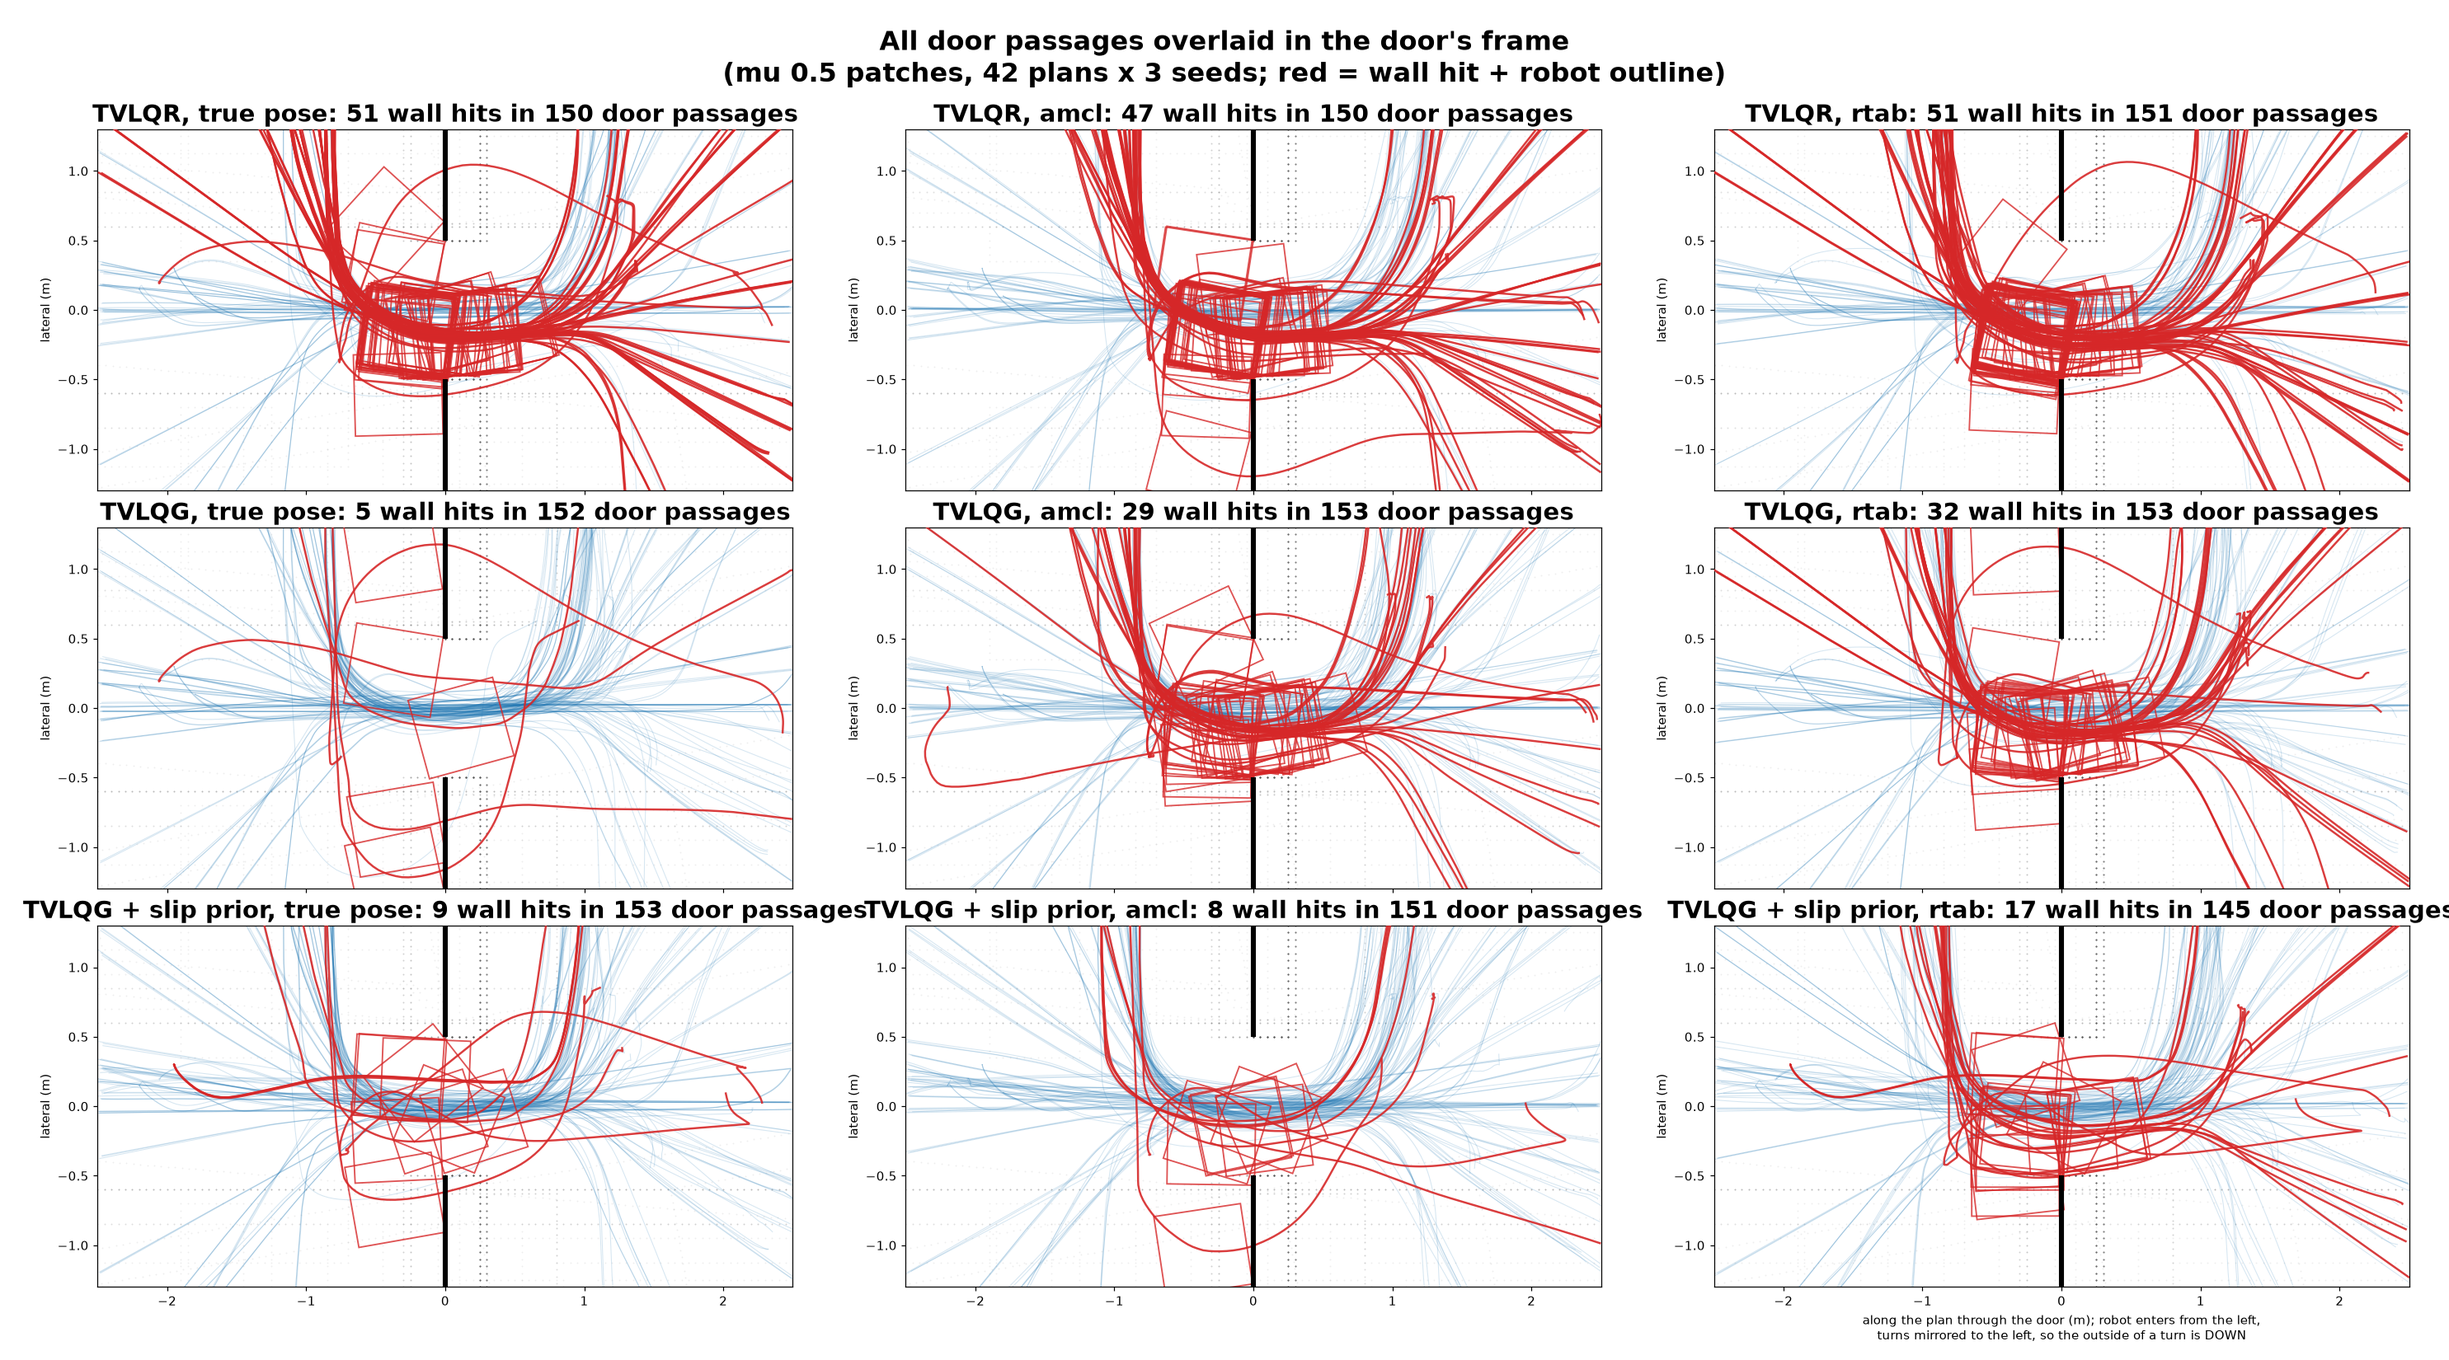
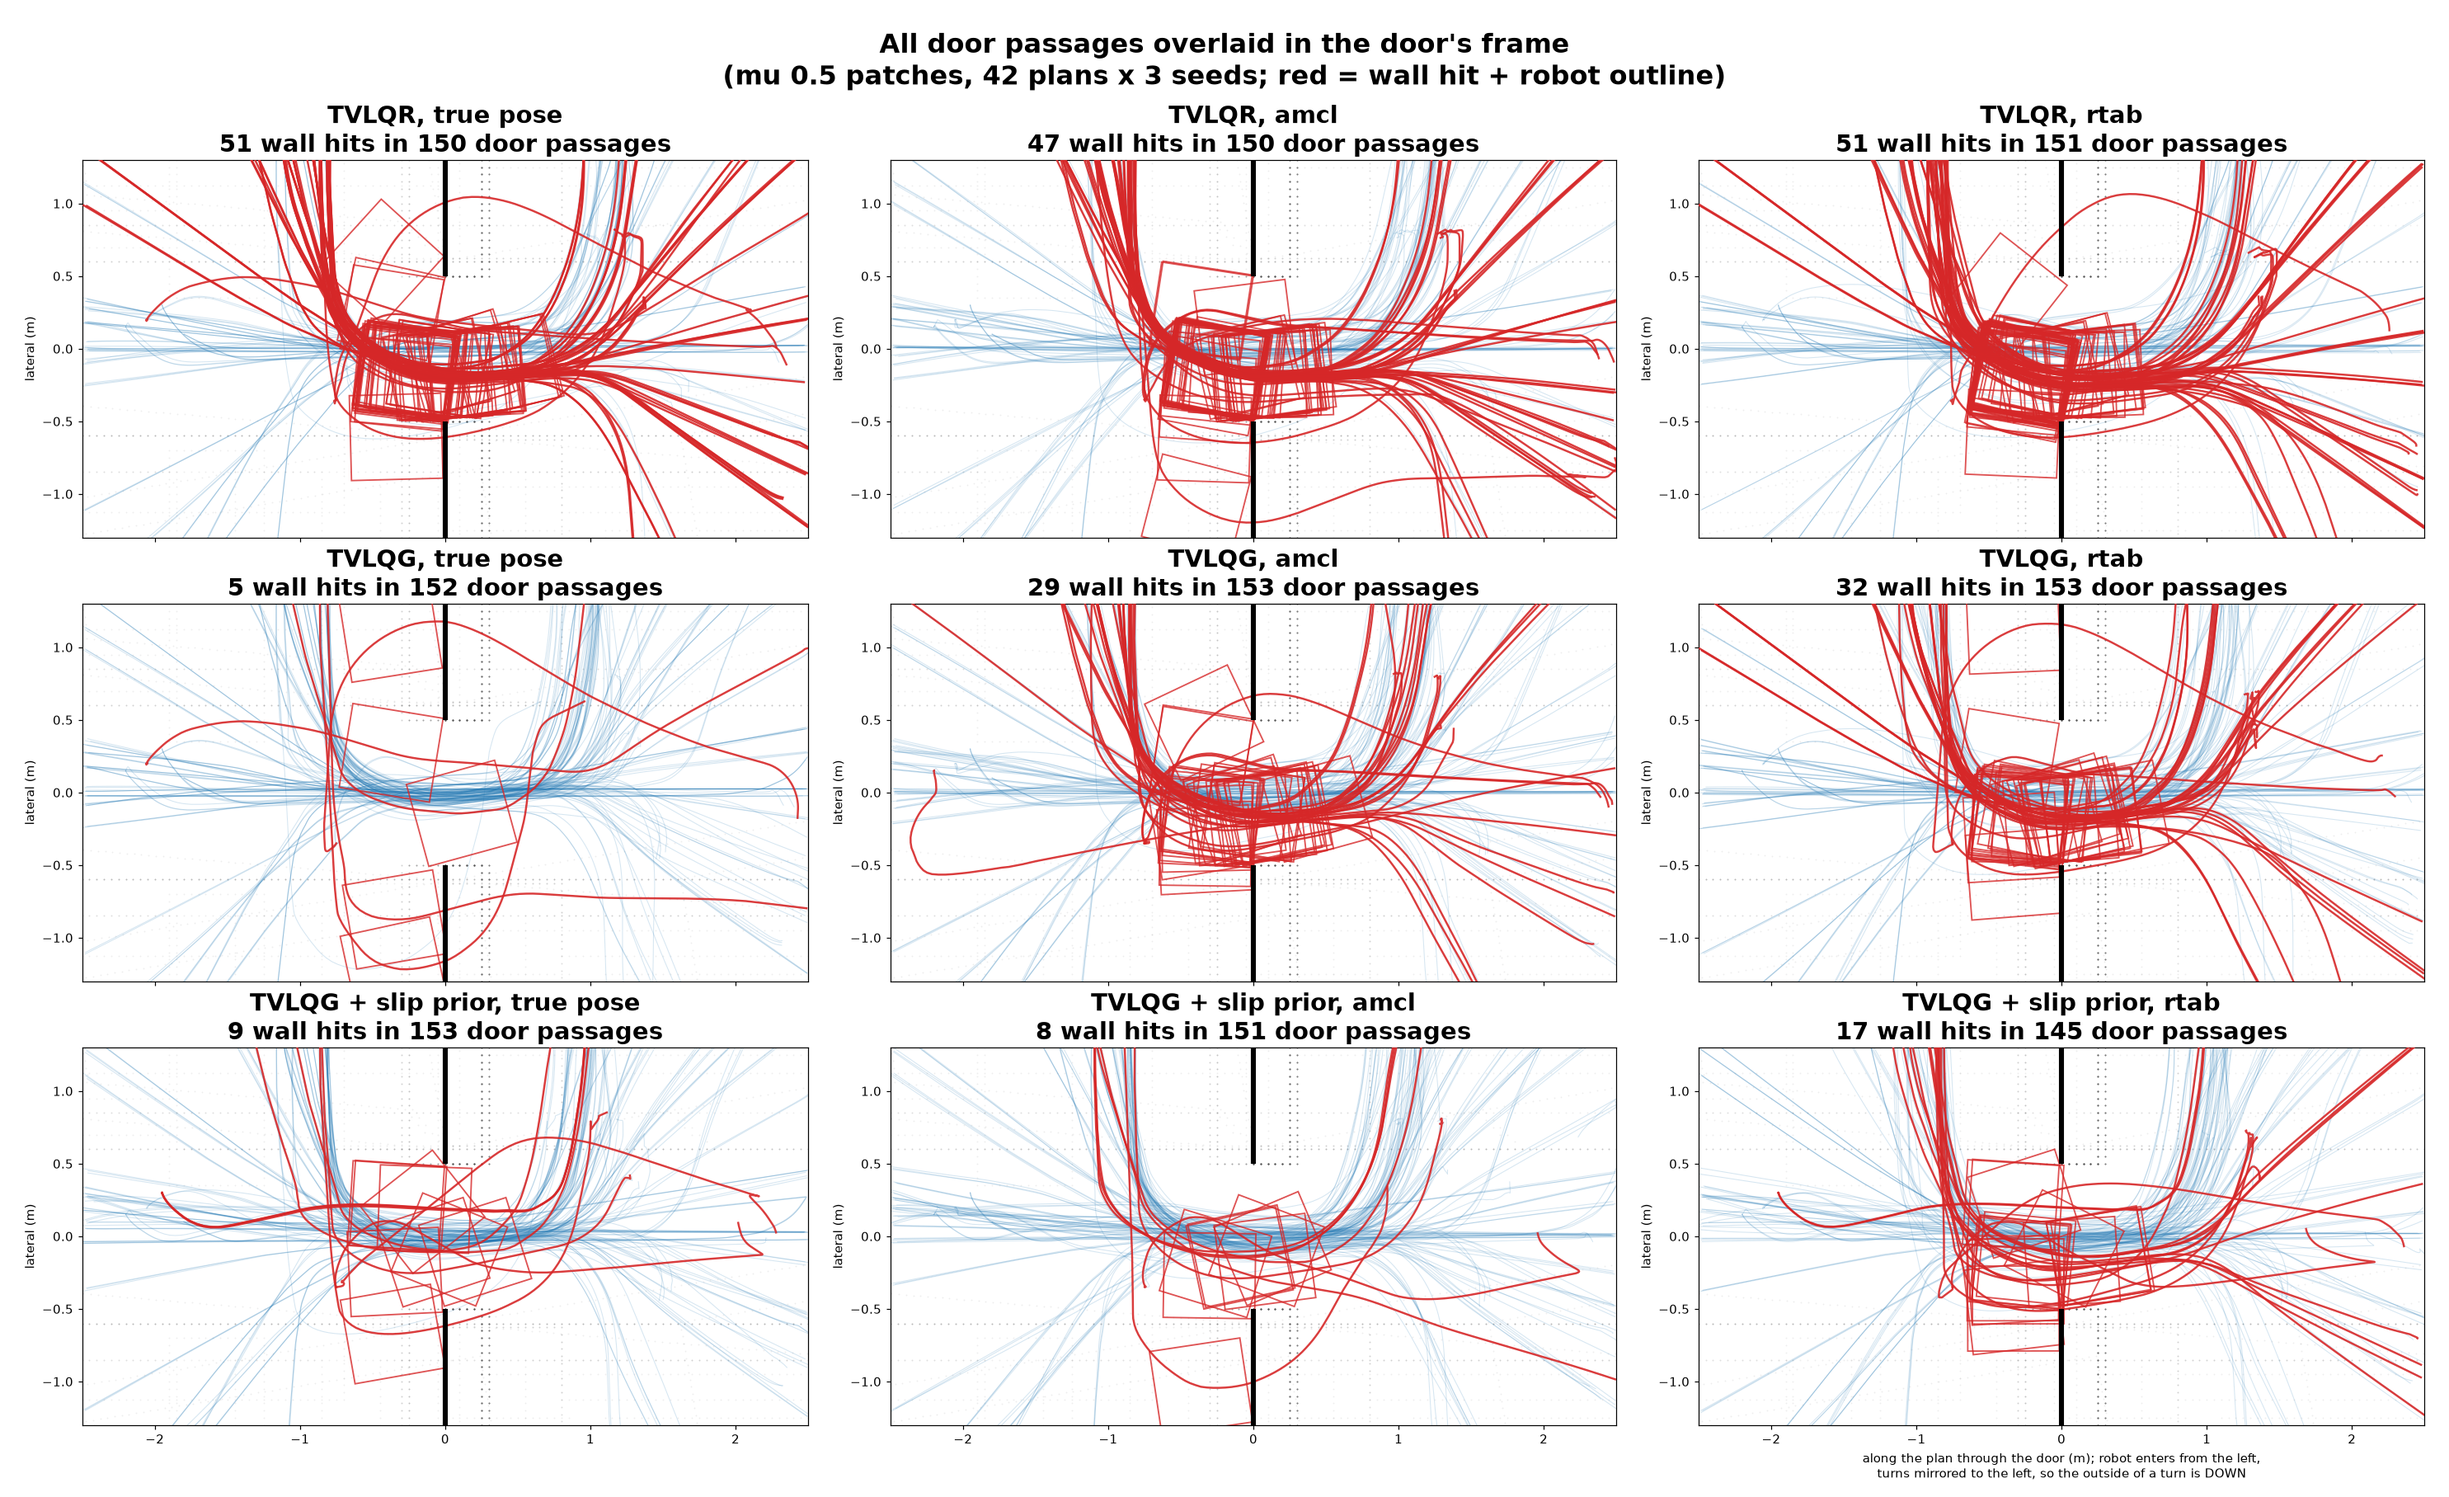
Add filter-pose door overlay figures

Changed region(s): [[0.0, 0.0309, 1.0, 0.9891]]

diff --git a/figures/2026-10-12/door_overlay/door_overlay.py b/figures/2026-10-12/door_overlay/door_overlay.py
@@ -89,7 +89,7 @@ def to_frame(p, o, h, m):
 
 
 NR = -(-len(ARMS) // COLS)
-fig, axs = plt.subplots(NR, COLS, figsize=((10.8 if COLS == 1 else 9.0) * COLS, 4.6 * NR + 1.2), sharex=True, squeeze=False)
+fig, axs = plt.subplots(NR, COLS, figsize=((10.8 if COLS == 1 else 9.0) * COLS, (4.6 if COLS == 1 else 5.1) * NR + 1.2), sharex=True, squeeze=False)
 axs = axs.ravel()
 plt.rcParams.update({"font.size": 18})
 summary = []
@@ -130,7 +130,7 @@ for ax, arm in zip(axs, ARMS):
                     ax.add_patch(Polygon(fp, fill=False, ec="tab:red", lw=1.2, alpha=0.8, zorder=4))
                 else:
                     ax.plot(q[win, 0], q[win, 1], "-", color="tab:blue", lw=0.7, alpha=0.18, zorder=2)
-    ax.set_title(f"{label}: {n_hit} wall hits in {n_pass} door passages", fontsize=19, fontweight="bold")
+    ax.set_title(f"{label}{chr(10) if COLS > 1 else ': '}{n_hit} wall hits in {n_pass} door passages", fontsize=19, fontweight="bold")
     ax.set_xlim(-W, W); ax.set_ylim(-1.3, 1.3); ax.set_facecolor('white'); ax.set_aspect("equal"); ax.set_ylabel("lateral (m)")
     jw = np.median(widths) / 2
     for sg in (1, -1):
